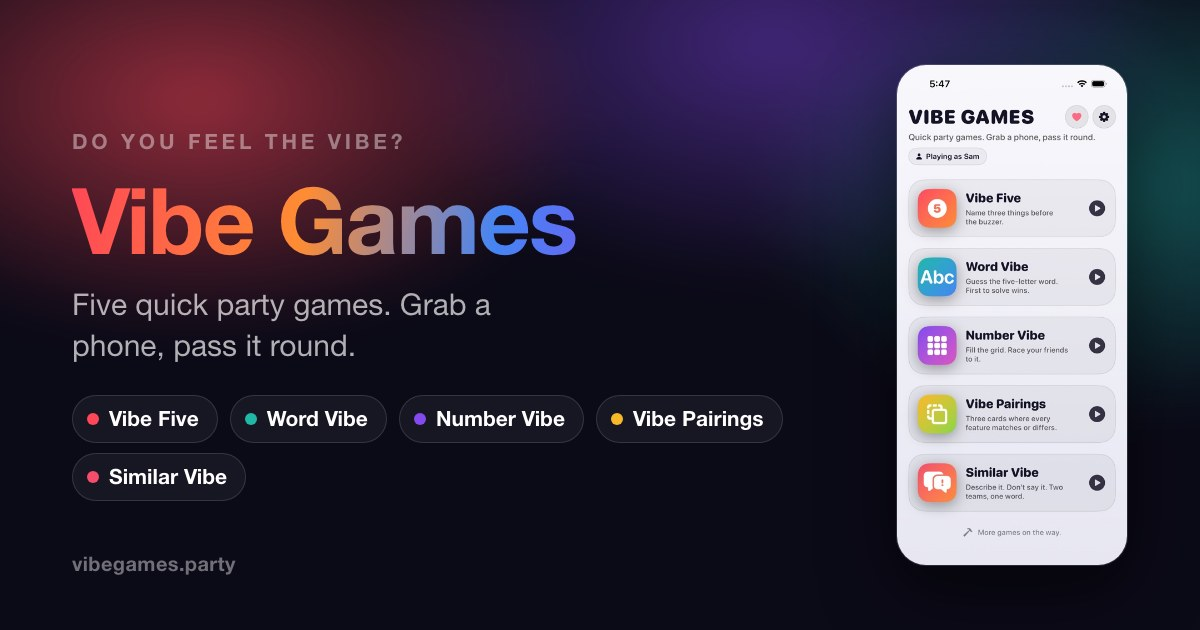
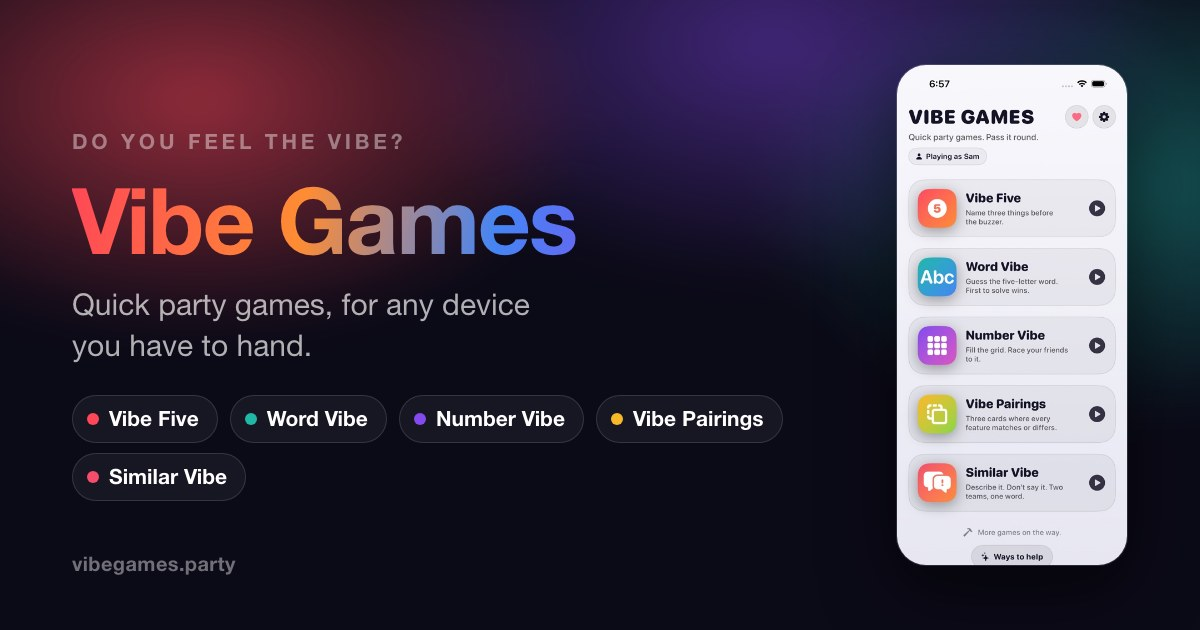
Stop saying five, and stop saying phone
Two things the copy had no business being precise about.

**The count.** "Five party games" is a number that goes stale the next time a game
is added, and it was in the page title, both cards, the meta description, the
structured data (as `numberOfItems`) and the tab title. All of it says "party
games" now. The games are still named — that is what a description is for — but
nothing counts them, including the machine-readable copy.

**The device.** "For the phone in your pocket" was the page title; "on the phone"
was in a card; "on their own phone" was in the multiplayer copy; and the app said
it seven more times — "Play on this phone" on three games, "Grab a phone, pass it
round" on the hub, "Pass the phone to Jo" between rounds in Similar Vibe,
"Everyone joins on their own phone" in its lobby, and "Play solo on this phone" in
the instructions. The games run on whatever is to hand, and an iPad is not a
phone. All of it says device now, or says nothing where the device was never the
point: the hub reads "Quick party games. Pass it round."

The three "play on this device" tiles also had an iPhone glyph. That is
`ipad.and.iphone` now — checked against the system symbol set rather than assumed,
since a symbol that does not exist draws nothing and fails quietly.

The title itself is the phrase asked for: **Vibe Games — party games in your
pocket**, on the page and in both cards.

One knock-on, since a screenshot is copy too: the hub's subtitle is printed in
[…]

Changed region(s): [[0.0617, 0.4524, 0.4625, 0.573], [0.8325, 0.2111, 0.925, 0.2413], [0.8017, 0.8746, 0.8633, 0.9048]]

diff --git a/site/index.html b/site/index.html
@@ -3,8 +3,8 @@
 <head>
 <meta charset="utf-8" />
 <meta name="viewport" content="width=device-width, initial-scale=1" />
-<title>Vibe Games — five party games for the phone in your pocket</title>
-<meta name="description" content="Vibe Five, Word Vibe, Number Vibe, Vibe Pairings and Similar Vibe. Play solo, or share a code and play with everyone in the room. Free, no accounts, nothing to install." />
+<title>Vibe Games — party games in your pocket</title>
+<meta name="description" content="Vibe Five, Word Vibe, Number Vibe, Vibe Pairings and Similar Vibe. Play solo, or share a code and play with everyone in the room. Free on any device, nothing to install." />
 <meta name="theme-color" content="#0b0a17" />
 <link rel="canonical" href="https://vibegames.party/" />
 
@@ -19,16 +19,16 @@
 <meta property="og:site_name" content="Vibe Games" />
 <meta property="og:locale" content="en_US" />
 <meta property="og:url" content="https://vibegames.party/" />
-<meta property="og:title" content="Vibe Games — five party games for the phone in your pocket" />
-<meta property="og:description" content="Name three things before the buzzer. Crack a five-letter word. Find the best charcuterie pairings. Free, in a browser or on the phone." />
+<meta property="og:title" content="Vibe Games — party games in your pocket" />
+<meta property="og:description" content="Name three things before the buzzer. Crack a five-letter word. Find the best charcuterie pairings. Free, in any browser, on any device." />
 <meta property="og:image" content="https://vibegames.party/assets/og/vibe-games.jpg" />
 <meta property="og:image:type" content="image/jpeg" />
 <meta property="og:image:width" content="1200" />
 <meta property="og:image:height" content="630" />
-<meta property="og:image:alt" content="Vibe Games, with a phone showing the five games" />
+<meta property="og:image:alt" content="Vibe Games, with a screen showing the games" />
 <meta name="twitter:card" content="summary_large_image" />
-<meta name="twitter:title" content="Vibe Games — five party games for the phone in your pocket" />
-<meta name="twitter:description" content="Name three things before the buzzer. Crack a five-letter word. Free, in a browser or on the phone." />
+<meta name="twitter:title" content="Vibe Games — party games in your pocket" />
+<meta name="twitter:description" content="Name three things before the buzzer. Crack a five-letter word. Free, in any browser, on any device." />
 <meta name="twitter:image" content="https://vibegames.party/assets/og/vibe-games.jpg" />
 
 <link rel="icon" href="/favicon.svg" type="image/svg+xml" />
@@ -40,7 +40,7 @@
 
 <!--
   What the page is, in a form a search engine can read. Only things that are
-  true: five games, playable in a browser, free. There is no SoftwareApplication
+  true: the games, playable in a browser, free. There is no SoftwareApplication
   for the iOS app here on purpose — it is not in the App Store yet, and a store
   link that does not exist is worse than no store link. Add one with a `sameAs`
   when it ships.
@@ -54,14 +54,13 @@
       "@id": "https://vibegames.party/#website",
       "url": "https://vibegames.party/",
       "name": "Vibe Games",
-      "description": "Five quick party games for the phone in your pocket, played solo or passed around a room.",
+      "description": "Quick party games, played solo or passed around a room, on whatever device is to hand.",
       "inLanguage": "en"
     },
     {
       "@type": "ItemList",
       "name": "The games",
       "itemListOrder": "https://schema.org/ItemListOrderAscending",
-      "numberOfItems": 5,
       "itemListElement": [
         {
           "@type": "ListItem",
@@ -177,7 +176,7 @@
 
     <div class="hero__device">
       <div class="phone phone--float">
-        <picture><source srcset="assets/screens/hub-dark.jpg?v=4" media="(prefers-color-scheme: dark)" /><img src="assets/screens/hub-light.jpg?v=4" alt="The Vibe Games home screen, listing five games" width="414" height="900" loading="eager" fetchpriority="high" /></picture>
+        <picture><source srcset="assets/screens/hub-dark.jpg?v=5" media="(prefers-color-scheme: dark)" /><img src="assets/screens/hub-light.jpg?v=5" alt="The Vibe Games home screen, listing the games" width="414" height="900" loading="eager" fetchpriority="high" /></picture>
       </div>
     </div>
   </div>
@@ -214,7 +213,7 @@
         <h3>Or with family & friends</h3>
         <p>
           Start a game, share the code, and everyone plays the same board on
-          their own phone. First to finish takes it. No limit to how many people can join. Make it a party!
+          their own device. First to finish takes it. No limit to how many people can join. Make it a party!
         </p>
         <ul class="ticks">
           <li>Everyone works on the same puzzle</li>

diff --git a/web/index.html b/web/index.html
@@ -7,7 +7,7 @@
     <meta name="viewport" content="width=device-width, initial-scale=1.0, maximum-scale=1.0, user-scalable=no" />
     <meta name="theme-color" content="#121213" />
     <title>Vibe Games — play in your browser</title>
-    <meta name="description" content="Five quick party games in a browser: Vibe Five, Word Vibe, Number Vibe, Vibe Pairings and Similar Vibe. Play solo, or share a code and play with everyone in the room." />
+    <meta name="description" content="Quick party games in a browser: Vibe Five, Word Vibe, Number Vibe, Vibe Pairings and Similar Vibe. Play solo, or share a code and play with everyone in the room." />
 
     <!--
       Every route here serves this one file, so every route claims to be this
@@ -26,15 +26,15 @@
     <meta property="og:locale" content="en_US" />
     <meta property="og:url" content="https://play.vibegames.party/" />
     <meta property="og:title" content="Vibe Games — play in your browser" />
-    <meta property="og:description" content="Five quick party games, free and in a browser. Solo, or share a code and play with everyone in the room." />
+    <meta property="og:description" content="Quick party games, free in a browser. Solo, or share a code and play with everyone in the room." />
     <meta property="og:image" content="https://vibegames.party/assets/og/vibe-games.jpg" />
     <meta property="og:image:type" content="image/jpeg" />
     <meta property="og:image:width" content="1200" />
     <meta property="og:image:height" content="630" />
-    <meta property="og:image:alt" content="Vibe Games, with a phone showing the five games" />
+    <meta property="og:image:alt" content="Vibe Games, with a screen showing the games" />
     <meta name="twitter:card" content="summary_large_image" />
     <meta name="twitter:title" content="Vibe Games — play in your browser" />
-    <meta name="twitter:description" content="Five quick party games, free and in a browser." />
+    <meta name="twitter:description" content="Quick party games, free in a browser, on any device." />
     <meta name="twitter:image" content="https://vibegames.party/assets/og/vibe-games.jpg" />
   </head>
   <body>
@@ -48,7 +48,7 @@
     <noscript>
       <h1>Vibe Games</h1>
       <p>
-        Five quick party games: Vibe Five, Word Vibe, Number Vibe, Vibe Pairings
+        Party games for any device: Vibe Five, Word Vibe, Number Vibe, Vibe Pairings
         and Similar Vibe. Playing them needs JavaScript —
         <a href="https://vibegames.party/">vibegames.party</a> has screenshots and
         says what each one is.

diff --git a/Sources/Features/VibeBlurt/VibeBlurtView.swift b/Sources/Features/VibeBlurt/VibeBlurtView.swift
@@ -2,7 +2,7 @@ import SwiftUI
 
 /// Similar Vibe — the describing game.
 ///
-/// Everyone is on their own phone in one room. Two teams; one person at a time
+/// Everyone is on their own device in one room. Two teams; one person at a time
 /// is handed a word and has to get their team to say it without saying it
 /// themselves. Nobody scores for guessing: the point goes to whichever team is
 /// *not* holding the word when the clock stops, which is what makes the whole
@@ -95,7 +95,7 @@ struct VibeBlurtView: View {
                 }
 
                 actionCard(title: "Start a game",
-                           subtitle: "Everyone joins on their own phone",
+                           subtitle: "Everyone joins on their own device",
                            symbol: "person.2.fill",
                            identifier: "blurt.createGame",
                            isEnabled: model.backendUnavailableMessage == nil) {
@@ -715,12 +715,12 @@ struct VibeBlurtView: View {
             }
 
             Text(model.isDescriber
-                 ? "Hold the phone so only you can see it, then start the clock."
+                 ? "Hold the device so only you can see it, then start the clock."
                  : model.canStartThisRound
                    ? "They have left the room, and nothing is running yet. Anyone on their team can take the round."
                    : model.describerName.isEmpty
                      ? "Nobody on that side is in the room, so there is no round to take."
-                     : "Pass the phone to \(model.describerName). Everyone else, watch for the word.")
+                     : "Pass the device to \(model.describerName). Everyone else, watch for the word.")
                 .font(.system(size: 14, weight: .medium, design: .rounded))
                 .foregroundStyle(VibeTheme.secondaryText)
                 .multilineTextAlignment(.center)

diff --git a/Sources/Design/GameInstructions.swift b/Sources/Design/GameInstructions.swift
@@ -54,7 +54,7 @@ struct GameInstructions {
                         + "can see how much time they had to spare."),
             Section(title: "Alternative Play",
                     body: "If you don't want to have a single person as a host, you can "
-                        + "also pass the phone from person to person. You can also play "
+                        + "also pass the device from person to person. You can also play "
                         + "solo this way if you want to practice."),
         ],
         bullets: [
@@ -72,7 +72,7 @@ struct GameInstructions {
         game: .words,
         name: "Word Vibe",
         identifier: "words.instructions",
-        intro: "Guess the five-letter word in six tries. Play solo on this phone, or start "
+        intro: "Guess the five-letter word in six tries. Play solo on this device, or start "
              + "a game and race everyone on the same word.",
         sections: [
             Section(title: "Reading the colours",
@@ -87,7 +87,7 @@ struct GameInstructions {
         ],
         bullets: [
             Bullet(lead: "Solo", text: "A fresh word, with no connection needed."),
-            Bullet(lead: "With friends", text: "Everyone guesses the same word on their own phone. "
+            Bullet(lead: "With friends", text: "Everyone guesses the same word on their own device. "
                         + "The first to solve it is announced to the whole room."),
         ])
 

diff --git a/web/src/games/five/VibeFive.tsx b/web/src/games/five/VibeFive.tsx
@@ -26,10 +26,10 @@ import { GAMES, trackGameFinish, trackGameStart } from '../../analytics';
 import './VibeFive.css';
 
 /**
- * Vibe Five on the web — the pass-the-phone game.
+ * Vibe Five on the web — the pass-the-device game.
  *
  * There is no shared game here and there is not meant to be: the whole thing is
- * one phone handed round a table, which is why it is the only game in the suite
+ * one device handed round a table, which is why it is the only game in the suite
  * with no database behind it.
  *
  * Flow: **START** reveals a category and the clock waits → **START** again sets
@@ -89,7 +89,7 @@ const categoryCount = countIn(ALL_PACK_IDS);
 const FIVE_INSTRUCTIONS: HowToPlayContent = {
   name: 'Vibe Five',
   intro:
-    'A category, five seconds, and one phone passed round the table. Name three things that fit before the buzzer.',
+    'A category, five seconds, and one device passed round the table. Name three things that fit before the buzzer.',
   sections: [
     {
       title: 'The category waits for you',

diff --git a/web/src/games/words/VibeWords.tsx b/web/src/games/words/VibeWords.tsx
@@ -26,7 +26,7 @@ const MAX_GUESSES = 6;
 const WORDS_INSTRUCTIONS: HowToPlayContent = {
   name: 'Word Vibe',
   intro:
-    'Guess the five-letter word in six tries. Play solo on this phone, or start a game and race everyone on the same word.',
+    'Guess the five-letter word in six tries. Play solo, or start a game and race everyone on the same word.',
   sections: [
     {
       title: 'Reading the colours',
@@ -41,7 +41,7 @@ const WORDS_INSTRUCTIONS: HowToPlayContent = {
     { lead: 'Solo', text: 'A fresh word, with no connection needed.' },
     {
       lead: 'With friends',
-      text: 'You get a code to share — two short words, like cars feed — and everyone guesses the same word on their own phone. The first to solve it is announced to the whole room.',
+      text: 'You get a code to share — two short words, like cars feed — and everyone guesses the same word on their own device. The first to solve it is announced to the whole room.',
     },
     {
       lead: 'The words',

diff --git a/Sources/Features/VibeWords/VibeWordsView.swift b/Sources/Features/VibeWords/VibeWordsView.swift
@@ -70,9 +70,9 @@ struct VibeWordsView: View {
                 }
 
                 actionCard(
-                    title: "Play on this phone",
+                    title: "Play on this device",
                     subtitle: "A fresh word, no connection needed",
-                    symbol: "iphone",
+                    symbol: "ipad.and.iphone",
                     identifier: "words.playSolo"
                 ) {
                     model.playSolo()
@@ -90,7 +90,7 @@ struct VibeWordsView: View {
 
                 joinCard
 
-                Text("Everyone plays the same word on their own phone. First to guess it wins.")
+                Text("Everyone plays the same word on their own device. First to guess it wins.")
                     .font(.system(size: 13, weight: .medium, design: .rounded))
                     .foregroundStyle(VibeTheme.tertiaryText)
                     .multilineTextAlignment(.center)

diff --git a/Sources/Features/VibeTrio/TrioInstructionsView.swift b/Sources/Features/VibeTrio/TrioInstructionsView.swift
@@ -59,7 +59,7 @@ struct TrioInstructionsView: View {
                     text: "Clear the whole deck at your own pace. Stuck? **Hint** picks out one card of a good pairing — the other two are still yours to find."),
                 GameInstructions.Bullet(
                     lead: "Race",
-                    text: "Everyone gets the same boards on their own phone. Whoever finds the most pairings wins."),
+                    text: "Everyone gets the same boards on their own device. Whoever finds the most pairings wins."),
                 GameInstructions.Bullet(
                     lead: "Wrong three",
                     text: "They flash red and nothing moves. Keep trying."),

diff --git a/site/ways-to-help.html b/site/ways-to-help.html
@@ -53,7 +53,7 @@
     <h1>Made with love</h1>
 
     <p class="lede">
-      I built these five games for my own family. We play them in the evenings —
+      I built these games for my own family. We play them in the evenings —
       it is how we wind down together and stay close — and I wanted to share that
       with other families.
     </p>
@@ -130,7 +130,7 @@
   <div class="wrap foot__inner">
     <div>
       <p class="foot__mark">Vibe Games</p>
-      <p class="fine">Party games for the phone in your pocket.</p>
+      <p class="fine">Party games in your pocket.</p>
     </div>
   </div>
 </footer>

diff --git a/Sources/Features/VibeTrio/VibeTrioView.swift b/Sources/Features/VibeTrio/VibeTrioView.swift
@@ -63,9 +63,9 @@ struct VibeTrioView: View {
                     banner(warning, symbol: "wifi.slash", tint: VibeTheme.warn)
                 }
 
-                actionCard(title: "Play on this phone",
+                actionCard(title: "Play on this device",
                            subtitle: "Clear the whole deck at your own pace",
-                           symbol: "iphone",
+                           symbol: "ipad.and.iphone",
                            identifier: "trio.playSolo") {
                     model.playSolo()
                 }

diff --git a/web/src/games/blurt/VibeBlurt.tsx b/web/src/games/blurt/VibeBlurt.tsx
@@ -44,7 +44,7 @@ import './VibeBlurt.css';
 /**
  * Similar Vibe on the web.
  *
- * Everyone is on their own phone in one room. Two teams; one person at a time is
+ * Everyone is on their own device in one room. Two teams; one person at a time is
  * handed a word and has to get their team to say it without saying it themselves.
  * Nobody scores for guessing — the point goes to whichever team is *not* holding
  * the word when the clock stops, which is what makes it a race to get rid of it.

diff --git a/web/src/hub/Support.tsx b/web/src/hub/Support.tsx
@@ -108,7 +108,7 @@ export function SupportPanel({ game, onClose }: { game?: string; onClose: () => 
 
         <h2>Made with love</h2>
         <p className="support-blurb">
-          I built these five games for my own family. We play them in the evenings — it is how we
+          I built these games for my own family. We play them in the evenings — it is how we
           wind down together and stay close — and I wanted to share that with other families.
         </p>
 
